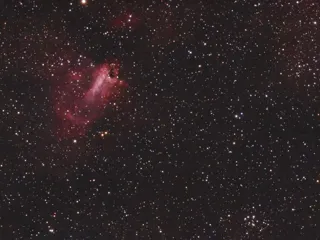
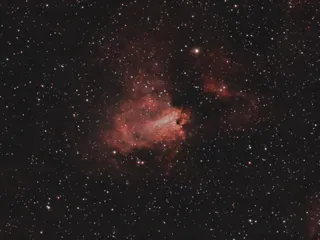
M17, M18

diff --git a/messier/index.html b/messier/index.html
@@ -39,7 +39,7 @@
         const [ messier, setMessier ] = useState();
         useEffect(() => {
           //console.log('App useEffect');
-          fetch('/messier/messier.json', {method: 'GET'})
+          fetch('/messier/messier.json?'+(new Date()).toISOString().substring(0,10), {method: 'GET'})
           .then(res => res.json())
           .then(data => {
             //console.log('App useEffect data', data);